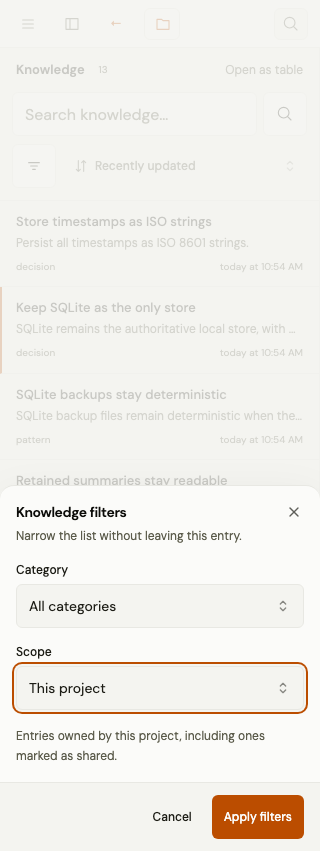
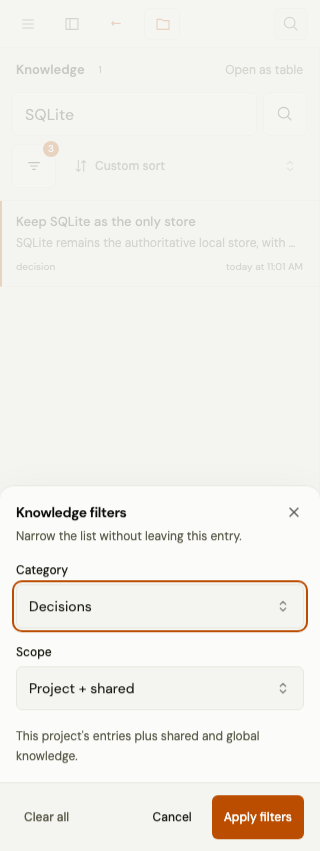
fix(ui): Keep applied filter chips off the mobile toolbar
Keep the active count visible and move Clear all into the mobile filter sheet.

Preserve desktop filter chips, the selected reader, and custom sorting.

diff --git a/packages/ui/e2e/workspace-shell.spec.ts b/packages/ui/e2e/workspace-shell.spec.ts
@@ -450,17 +450,43 @@ test("knowledge filters combine, dismiss and clear without losing the reader or 
   await page.keyboard.press("Escape");
   await expect(panel).toHaveCount(0);
   expect(new URL(page.url()).searchParams.get("category")).toBe("decision");
-  await toolbar
-    .getByRole("button", { name: "Remove category: Decisions" })
-    .click();
-  await expect(
-    toolbar.getByRole("button", { name: "Remove category: Decisions" }),
-  ).toHaveCount(0);
+  const mobile = testInfo.project.name.includes("mobile");
+  if (mobile) {
+    await expect(
+      toolbar.getByRole("group", { name: "Applied knowledge filters" }),
+    ).toHaveCount(0);
+    await filters.click();
+    await panel.getByRole("button", { name: /^Category/ }).click();
+    await page
+      .getByRole("option", { name: "All categories", exact: true })
+      .click();
+    await panel.getByRole("button", { name: "Apply filters" }).click();
+    await expect(panel).toHaveCount(0);
+  } else {
+    await toolbar
+      .getByRole("button", { name: "Remove category: Decisions" })
+      .click();
+    await expect(
+      toolbar.getByRole("button", { name: "Remove category: Decisions" }),
+    ).toHaveCount(0);
+  }
+  await expect
+    .poll(() => new URL(page.url()).searchParams.has("category"))
+    .toBe(false);
   expect(new URL(page.url()).searchParams.get("scope")).toBe("all");
   expect(new URL(page.url()).searchParams.get("q")).toBe("SQLite");
-  await toolbar
-    .getByRole("button", { name: "Clear filters", exact: true })
-    .click();
+  if (mobile) {
+    await filters.click();
+    await panel
+      .getByRole("button", { name: "Clear filters", exact: true })
+      .click();
+    await expect(panel).toHaveCount(0);
+    await expect(filters).toBeFocused();
+  } else {
+    await toolbar
+      .getByRole("button", { name: "Clear filters", exact: true })
+      .click();
+  }
   await expect(
     toolbar.getByRole("textbox", { name: "Filter knowledge list" }),
   ).toHaveValue("");
@@ -768,6 +794,11 @@ for (const theme of ["light", "dark"] as const) {
       await expect(filters).toContainText("3");
     } else
       await expect(filters.getByText("Filters", { exact: true })).toBeVisible();
+    const chips = page.getByRole("group", {
+      name: "Applied knowledge filters",
+    });
+    if (mobile) await expect(chips).toHaveCount(0);
+    else await expect(chips).toBeVisible();
     await expect(filters).toHaveAccessibleDescription("3 active filters");
     const badge = filters.getByLabel("3 active filters");
     await expect(badge).toHaveText("3");
@@ -778,6 +809,30 @@ for (const theme of ["light", "dark"] as const) {
       path: testInfo.outputPath(`knowledge-toolbar-${theme}.png`),
       scale: "css",
     });
+    if (mobile) {
+      await filters.click();
+      const panel = page.getByRole("dialog", {
+        name: "Knowledge filters",
+        exact: true,
+      });
+      for (const name of ["Clear filters", "Cancel", "Apply filters"]) {
+        await expect(
+          panel.getByRole("button", { name, exact: true }),
+        ).toBeInViewport();
+      }
+      expect(
+        await panel.evaluate(
+          (element) => element.scrollWidth <= element.clientWidth,
+        ),
+      ).toBe(true);
+      await page.screenshot({
+        path: testInfo.outputPath(`knowledge-active-filters-${theme}.png`),
+        scale: "css",
+        fullPage: true,
+      });
+      await panel.getByRole("button", { name: "Dismiss", exact: true }).click();
+      await expect(panel).toHaveCount(0);
+    }
     const sort = page.getByRole("button", { name: /^List sort/ });
     await sort.click();
     const sheet = page.getByRole("dialog", {

diff --git a/packages/ui/test/knowledge-list-toolbar.test.tsx b/packages/ui/test/knowledge-list-toolbar.test.tsx
@@ -92,9 +92,18 @@ describe.each(["desktop", "mobile"] as const)(
           screen.queryByRole("dialog", { name: "Knowledge filters" }),
         ).toBeNull(),
       );
-      fireEvent.click(
-        screen.getByRole("button", { name: "Remove category: Decisions" }),
-      );
+      if (device === "mobile") {
+        expect(
+          screen.queryByRole("group", { name: "Applied knowledge filters" }),
+        ).toBeNull();
+        fireEvent.click(filterTrigger);
+        await choose("Category", "All categories");
+        fireEvent.click(screen.getByRole("button", { name: "Apply filters" }));
+      } else {
+        fireEvent.click(
+          screen.getByRole("button", { name: "Remove category: Decisions" }),
+        );
+      }
       expect(query()).toEqual({
         ...initial,
         category: null,
@@ -103,6 +112,7 @@ describe.each(["desktop", "mobile"] as const)(
       });
       expect(filterTrigger).toHaveAccessibleDescription("2 active filters");
       expect(screen.getByLabelText("2 active filters")).toHaveTextContent("2");
+      if (device === "mobile") fireEvent.click(filterTrigger);
       fireEvent.click(screen.getByRole("button", { name: "Clear filters" }));
       expect(filterTrigger).toHaveAccessibleDescription("0 active filters");
       expect(screen.queryByLabelText(/active filters?$/)).toBeNull();

diff --git a/packages/ui/src/components/lore/KnowledgeListToolbar.tsx b/packages/ui/src/components/lore/KnowledgeListToolbar.tsx
@@ -230,6 +230,21 @@ export const KnowledgeListToolbar: Component<{
             : "flex justify-end gap-2 border-t border-line bg-soft px-4 py-3"
         }
       >
+        <Show when={sheet && active().length}>
+          <Button
+            type="button"
+            variant="ghost"
+            size="sm"
+            class="mr-auto h-11 px-2 text-xs text-muted"
+            aria-label="Clear filters"
+            onClick={() => {
+              setOpen(false);
+              clear();
+            }}
+          >
+            Clear all
+          </Button>
+        </Show>
         <Button
           type="button"
           variant="ghost"
@@ -381,7 +396,7 @@ export const KnowledgeListToolbar: Component<{
             contentClass="max-h-[var(--kb-popper-content-available-height)] overflow-y-auto overscroll-contain"
           />
         </div>
-        <Show when={active().length}>
+        <Show when={!mobile() && active().length}>
           <div
             class="flex flex-wrap items-center gap-1.5"
             aria-label="Applied knowledge filters"

diff --git a/docs/ui-redesign/README.md b/docs/ui-redesign/README.md
@@ -43,8 +43,10 @@ aligns with the drawer, and theme controls have 44px touch targets.
 
 The knowledge reader keeps search above a compact Filters/sort row. A labeled
 filter panel applies category and scope together, with explanations for project,
-shared, and global visibility. Applied filters appear as removable chips; clearing
-them preserves the selected entry and sort order. Both directions are available
+shared, and global visibility. Desktop shows applied filters as removable chips;
+clearing them preserves the selected entry and sort order. On mobile, chips are hidden
+and Clear all lives inside the filter sheet, leaving the toolbar compact. The
+badge still reports applied filters. Both directions are available
 for updated/created date, title, and confidence. Existing multi-column sorts from
 the table remain intact. Desktop keeps its anchored popover. Below 768px, Filters
 opens a full-width bottom sheet with a backdrop, a 44px close control, scrollable
